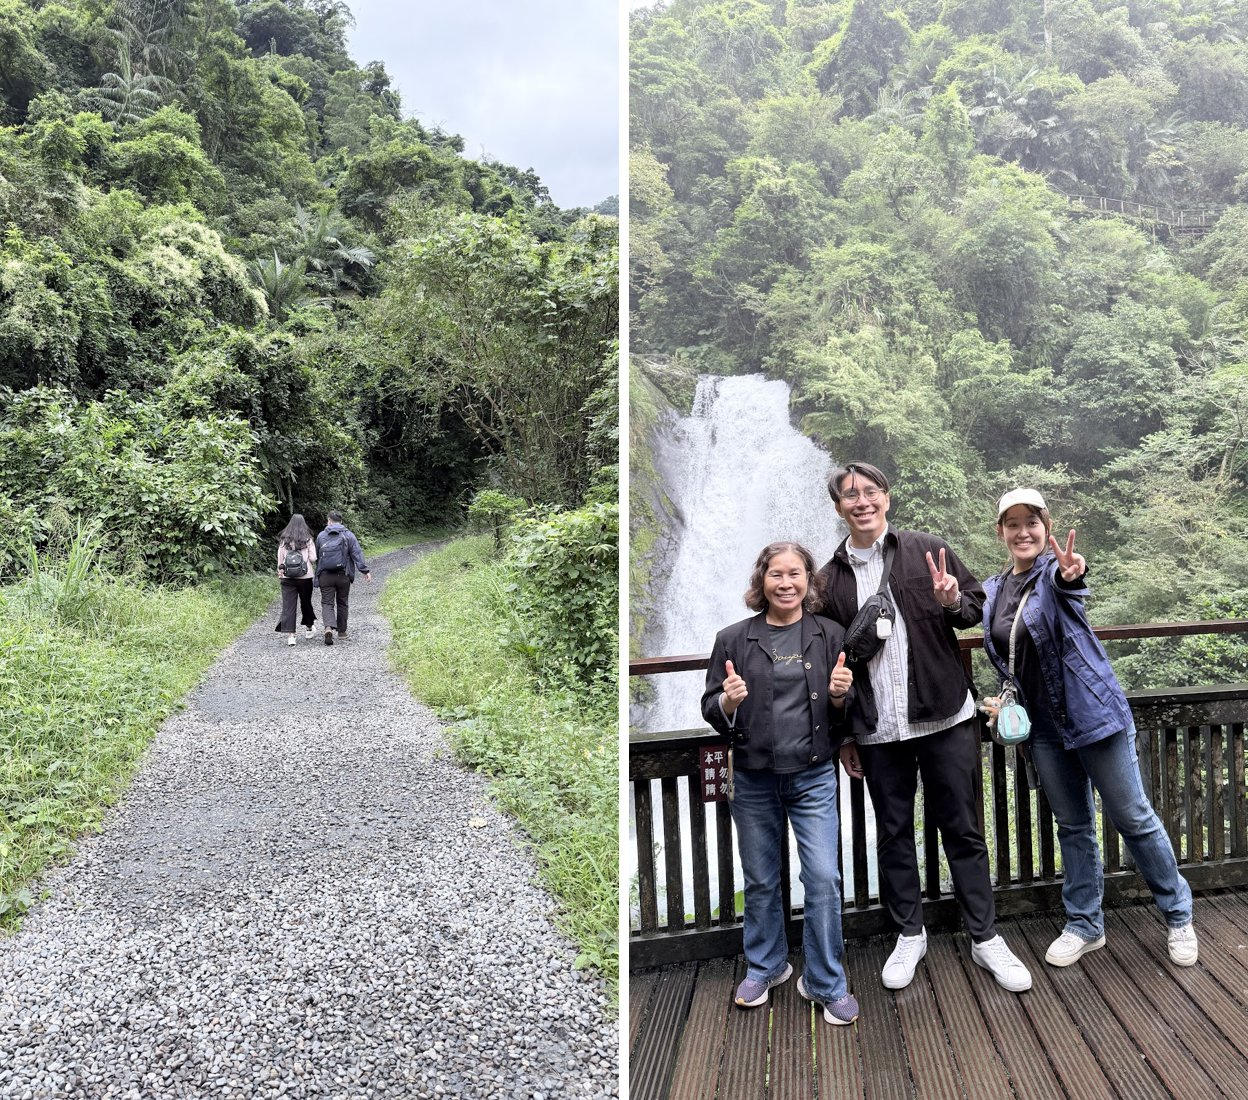
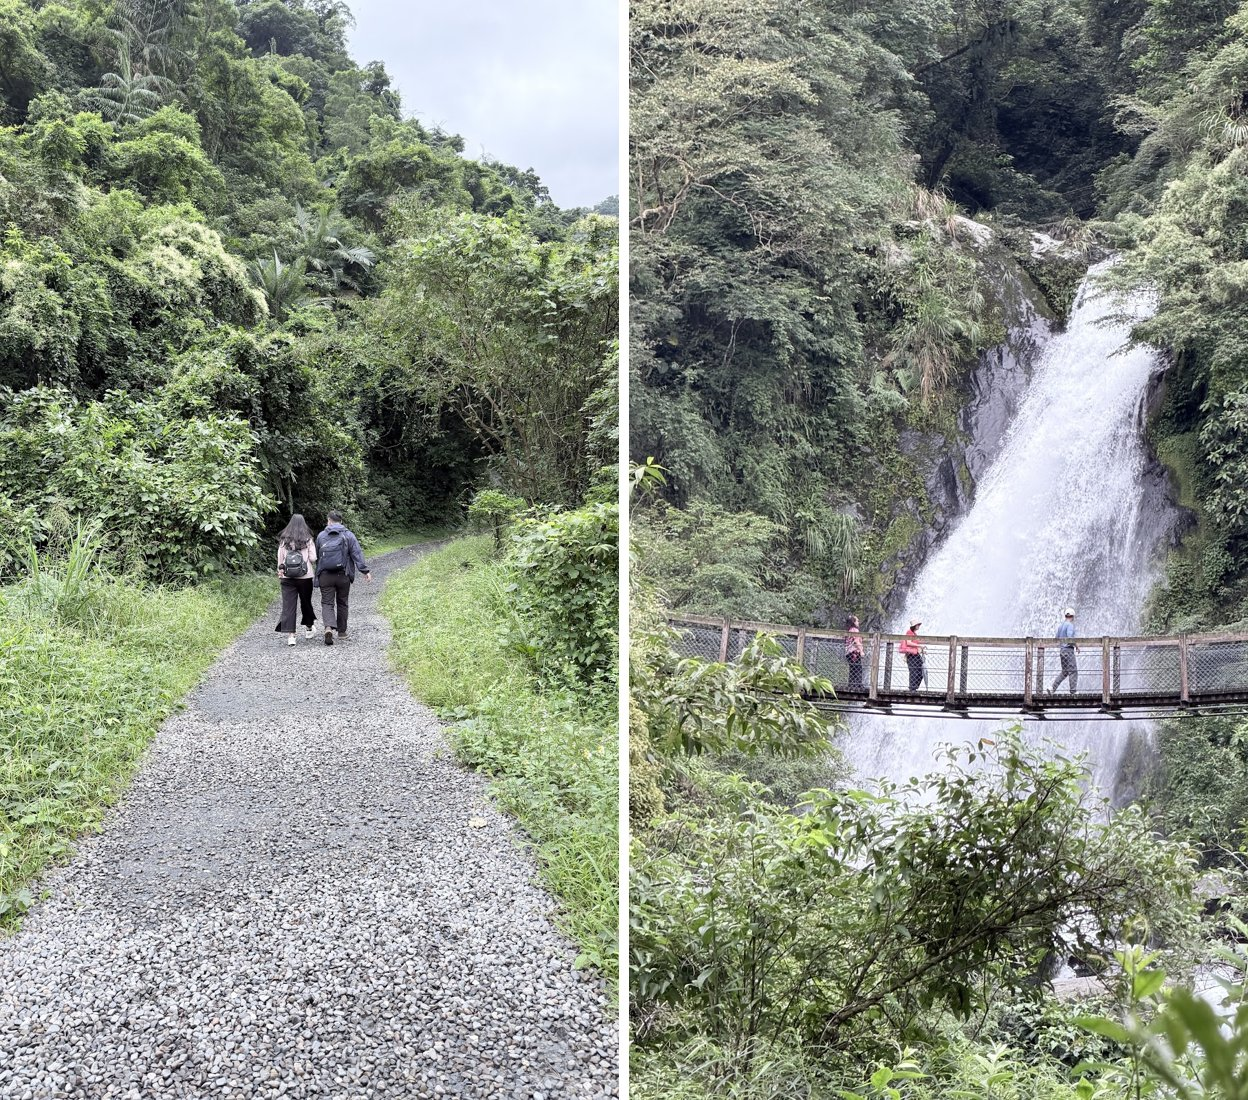
海風號: more train details, no family faces, new photos
- Route 宜蘭→南港 with stops at 大里 and 猴硐; desserts made on board; tea refills
- Souvenirs: ticket, ice cream spoon, dessert menu, stamp postcard (with photo)
- Replace photos showing family faces; new cover middle shot (龍潭湖)
- Train photo: ticket + stamp table; dessert: ice cream + dessert box

Claude-Session: https://claude.ai/code/session_01YKvPvfkhjaPv18r36TCYqA

diff --git a/content/posts/2026-10-09-haifeng-tea-tour/index.md b/content/posts/2026-10-09-haifeng-tea-tour/index.md
@@ -16,7 +16,7 @@ comments: true
 
 cover:
   image: "cover.jpg"
-  alt: "新寮瀑布、星源茶園採茶、海風號列車"
+  alt: "新寮瀑布、龍潭湖、海風號列車"
   relative: true
   hiddenInSingle: true
 ---
@@ -95,7 +95,7 @@ cover:
 
 {{< figure src="gallery/01-xinliao-waterfall.jpg" caption="新寮瀑布第一層，水量很大" align="center" >}}
 
-{{< figure src="gallery/02-xinliao-trail.jpg" caption="步道平緩好走，觀瀑平台可以拍全家福" align="center" >}}
+{{< figure src="gallery/02-xinliao-trail.jpg" caption="步道平緩好走，第一層瀑布前還有吊橋" align="center" >}}
 
 宜蘭冬山鄉的熱門步道，沿著溪谷走，樹蔭很多、水聲很近，被叫作蘭陽平原的「綠色鑽石」。
 
@@ -115,9 +115,9 @@ cover:
 
 ### 星源茶園：當一日製茶師
 
-{{< figure src="gallery/04-tea-picking.jpg" caption="換上採茶裝進茶園，學採「一心二葉」" align="center" >}}
+{{< figure src="gallery/04-tea-picking.jpg" caption="在茶園學採「一心二葉」，放進竹簍" align="center" >}}
 
-{{< figure src="gallery/05-tea-making.jpg" caption="手揉茶葉，再用評茶杯比較不同茶款" align="center" >}}
+{{< figure src="gallery/05-tea-making.jpg" caption="手揉茶葉，再玩海風號限定的評茶連連看" align="center" >}}
 
 這天的重頭戲，**整套體驗將近 3 小時**：
 
@@ -162,8 +162,8 @@ cover:
 {{< stop time="12:00" title="午餐：喜浪鐵沐料理廚坊・原民風味套餐" icon="🍖" place="宜蘭市" >}}
 鹹豬肉＆竹筒飯套餐。**我們覺得只有「尚可」**。
 {{< /stop >}}
-{{< stop time="14:22" title="搭乘海風號甜點列車" icon="🚃" >}}
-約 3 小時的列車行程，吃甜點、看海景。
+{{< stop time="14:22" title="搭乘海風號甜點列車" icon="🚃" place="宜蘭 → 南港" >}}
+約 3 小時，吃車上現做的甜點、看海景，中途在**大里**和**猴硐**下車走走。
 {{< /stop >}}
 {{< stop time="18:00" title="抵達南港車站，賦歸" icon="🏁" place="南港車站" >}}
 列車 17:21 結束行程，約 18:00 後抵達南港。晚餐自理。
@@ -199,28 +199,48 @@ cover:
 > [!WARNING] 我們的評價：尚可
 > 這一餐**中規中矩，只有「尚可」**，沒有特別驚豔。整趟旅程的亮點還是在茶園體驗、飯店和海風號，對這餐不用期待太高。
 
-### 海風號甜點列車：坐著看海回台北
+### 海風號甜點列車：宜蘭坐到南港
 
-{{< figure src="gallery/09-haifeng-train.jpg" caption="薄荷綠的海風號，車廂是一張張面窗的沙發座" align="center" >}}
+{{< figure src="gallery/09-haifeng-train.jpg" caption="薄荷綠的海風號和紀念車票；座位桌上還有蓋章區" align="center" >}}
 
-{{< figure src="gallery/10-haifeng-dessert.jpg" caption="車上的甜點和茶" align="center" >}}
+這趟的壓軸。**海風號**是台鐵的甜點觀光列車，我們這班從**宜蘭**開往**南港**，
+薄荷綠的車廂配上**全景落地窗沙發座椅**，有「**海風管家**」在車上服務。
 
-{{< figure src="gallery/11-haifeng-stops.jpg" caption="途中停靠站：海邊看得到龜山島，車站裡還有貓" align="center" >}}
+#### 🍰 甜點是在車上現做的！
 
-這趟的壓軸。**海風號**是台鐵的甜點觀光列車，馬卡龍色的車廂配上**全景落地窗沙發座椅**，
-一路吃列車專屬的**匠心甜點**、看山海風景，途中還會停靠秘境車站，有**深度導覽**和「**海風管家**」的貼心服務。
+甜點裝在抽屜式的禮盒裡，一層甜、一層鹹，附上菜單，還有一杯冰淇淋。
+**茶可以無限續杯**，坐三個小時也不怕口渴。
+
+{{< figure src="gallery/10-haifeng-dessert.jpg" caption="車上現做的甜點：冰淇淋和抽屜式甜點盒（附菜單）" align="center" >}}
+
+#### 🚉 中途下車：大里、猴硐
+
+列車會在**大里**和**猴硐**停靠，可以下車走走：大里在海邊，看得到**龜山島**；猴硐是有名的**貓村**，車站就遇到貓。
+
+{{< figure src="gallery/11-haifeng-stops.jpg" caption="左：大里海邊看龜山島；右：猴硐車站的貓" align="center" >}}
+
+#### 🎁 海風號送的紀念品
+
+
+- 🎫 **紀念車票**：透明的海風號車票，印著日期和「宜蘭－南港」
+- 🥄 **冰淇淋湯匙**：吃冰淇淋用的湯匙可以帶走
+- 📜 **甜點菜單**：當天的甜點菜單卡
+- 📮 **紀念蓋章明信片**：用座位旁的印章**疊蓋三次**，蓋出完整圖案
+
+{{< figure src="gallery/12-haifeng-stamp.jpg" caption="蓋好三層印章的紀念明信片" align="center" >}}
 
 | 項目 | 內容 |
 |---|---|
+| 🛤 路線 | **宜蘭 → 南港**（中途停大里、猴硐） |
 | 🕑 時間 | **14:22～17:21**（以台鐵當日公告為準） |
 | 🏁 終點 | 南港車站，約 18:00 後抵達 |
 | 🪑 座位 | 依訂單順序安排，**無法指定車廂或靠窗**，可能和其他旅客併桌 |
-| 🍰 餐點 | 列車甜點；**不提供全素** |
+| 🍰 餐點 | 車上現做甜點、**茶無限續**；**不提供全素** |
 {.trip-facts}
 
 > [!TIP] 長輩提醒
 > - 同行家人**分開下訂**的話，訂購時記得在備註寫明要坐一起。
-> - 停靠車站下車拍照時，**一定要跟著領隊**，不能穿越軌道。
+> - 大里、猴硐下車時，**一定要跟著領隊**，準時回到車上，不能穿越軌道。
 > - 坐三個小時的車，**上車前先去一趟廁所**比較安心。
 
 ---
